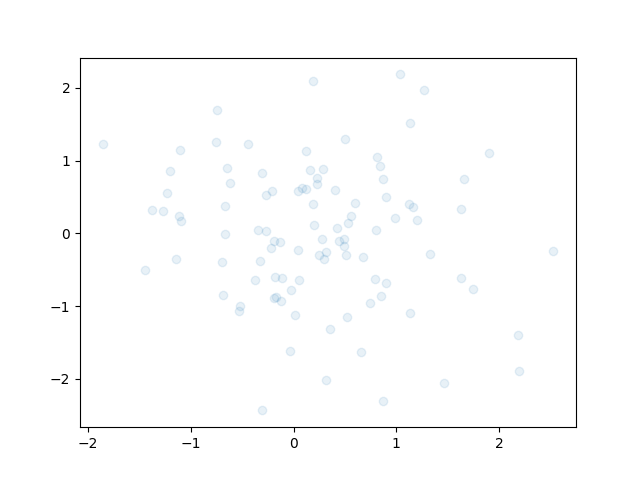
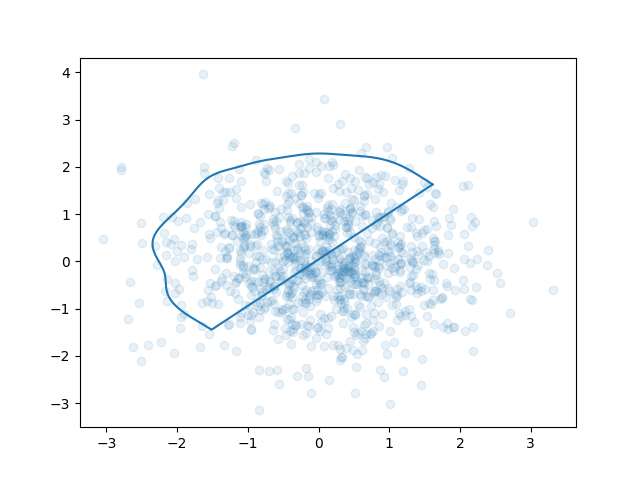
cut at axes and cut at diagonal works in playing with contours, plot_posterior is a mess

diff --git a/plot_posterior.py b/plot_posterior.py
@@ -85,6 +85,19 @@ class PlotPosterior:
 
         return rotated_data1, rotated_data2
 
+
+    def extract_vertices(self, contour):
+        path = contour.collections[-1].get_paths()[0]
+        vertices = path.vertices
+
+        return vertices
+
+
+    def close_contour(self, path):
+        path.vertices[-1] = path.vertices[0]
+        path.closed = True
+
+
     def scatter_hist(self, x, y, ax, injected_x, injected_y, ax_histx, ax_histy, scatter_color='blue', **kwargs):
         clip = None
 
@@ -106,18 +119,47 @@ class PlotPosterior:
         ax_histx.tick_params(axis="x", labelbottom=False)
         ax_histy.tick_params(axis="y", labelleft=False)
 
-        sns.kdeplot(x=kde_x, y=kde_y, ax=ax, levels=[0.1, 0.5], clip=clip, **kwargs)
-        ax.scatter(x, y, alpha=0.07, color=scatter_color)
+        main_contour = sns.kdeplot(x=kde_x, y=kde_y, levels=[0.1, 0.5], clip=clip, **kwargs)
+        x_contour = sns.kdeplot(x=kde_x, **kwargs)
+        y_contour = sns.kdeplot(y=kde_y, **kwargs)
 
-        sns.kdeplot(x=kde_x, ax=ax_histx, **kwargs)
-        sns.kdeplot(y=kde_y, ax=ax_histy, **kwargs)
+        contours = [main_contour, x_contour, y_contour]
+        vertices_list = [self.extract_vertices(contour) for contour in contours]
+
+        for vertices in vertices_list:
+            vertex_x, vertex_y = zip(*vertices)
+            vertex_x = np.array(vertex_x)
+            vertex_y = np.array(vertex_y)
+            if self.limit_at_axes:
+                filter = np.intersect1d(np.where(vertex_x > 0), np.where(vertex_y > 0))
+            if self.limit_at_diagonal:
+                filter = np.where(vertex_y > vertex_x)
+            vertices = vertices[filter]
+
+        for contour in contours:
+            path = contour.collections[-1].get_paths()[0]
+            self.close_contour(path)
+
+        main_vertices = vertices_list[0]
+        xhist_vertices = vertices_list[1]
+        yhist_vertices = vertices_list[2]
+
+        main_x, main_y = zip(*main_vertices)
+        xhist_x, xhist_y = zip(*xhist_vertices)
+        yhist_x, yhist_y = zip(*yhist_vertices)
+
+        ax.scatter(x, y, alpha=0.07, color=scatter_color)
+        ax.plot(main_x, main_y)
+
+        ax_histx.plot(xhist_x, xhist_y)
+        ax_histy.plot(yhist_x, yhist_y)
 
         ax.axvline(injected_x, color='black')
         ax.axhline(injected_y, color='black')
         ax.scatter([injected_x], [injected_y], color='black', marker='o', label='injected value')
 
-        ax.axvline(0, color='red')
-        ax.axhline(0, color='red')
+        # ax.axvline(0, color='red')
+        # ax.axhline(0, color='red')
 
     def plot(self, save=False, show=False, xlabel='', ylabel='', title='', **kwargs):
         fig = plt.figure(figsize=(8, 8))

diff --git a/playing_with_contours.py b/playing_with_contours.py
@@ -9,16 +9,64 @@ x = data[0]
 y = data[1]
 
 
-ax = sns.kdeplot(x=x, y=y, levels=[0.1, 0.5])
-print(ax.collections[-1].get_paths())
+def cut_contour_at_axes(path):
+    contour_x = path.vertices.T[0]
+    contour_y = path.vertices.T[1]
 
-# for path in ax.collections[-1].get_paths():
-#     print(path)
+    filter = np.intersect1d(np.where(contour_x > 0), np.where(contour_y > 0))
+
+    print(path.vertices)
+
+    path.vertices = path.vertices[filter]
+
+    contour_x = path.vertices.T[0]
+    contour_y = path.vertices.T[1]
+
+    extended_contour_x = np.zeros(shape=(len(contour_x) + 2,))
+    extended_contour_y = np.zeros(shape=(len(contour_y) + 2,))
+
+    extended_contour_x[1: -1] = contour_x
+    extended_contour_y[1: -1] = contour_y
+
+    return extended_contour_x, extended_contour_y
+
+def cut_contour_at_diagonal(path):
+    contour_x = path.vertices.T[0]
+    contour_y = path.vertices.T[1]
+
+    filter = np.where(contour_y > contour_x)
+
+    print(path.vertices)
+
+    path.vertices = path.vertices[filter]
+
+    contour_x = path.vertices.T[0]
+    contour_y = path.vertices.T[1]
+
+    extended_contour_x = np.zeros(shape=(len(contour_x) + 1,))
+    extended_contour_y = np.zeros(shape=(len(contour_y) + 1,))
+
+    extended_contour_x[0: -1] = contour_x
+    extended_contour_y[0: -1] = contour_y
+
+    extended_contour_x[-1] = contour_x[0]
+    extended_contour_y[-1] = contour_y[0]
+
+    return extended_contour_x, extended_contour_y
+
+
+
+ax = sns.kdeplot(x=x, y=y, levels=[0.1])
+path = ax.collections[-1].get_paths()[0]
+# print(path)
+contour_x, contour_y = cut_contour_at_diagonal(path)
+# path.codes = None
 
 plt.figure()
 
 plt.scatter(x, y, alpha=0.1)
-plt.plot()
+plt.plot(contour_x, contour_y)
+# sns.kdeplot(x=x, y=y, levels=[0.1])
 
 plt.savefig('contour_test.png')
 # plt.show()

diff --git a/compare_binary_love.py b/compare_binary_love.py
@@ -9,7 +9,7 @@ zero_spin_filename = 'bns_zero_spin_L1L2_example_data0_1126259642-413_analysis_H
 zero_spin_data = DataLoaderH5(filename='data/' + zero_spin_filename + '.hdf5', parameters=parameters)
 zero_spin_plotter = PlotPosterior(zero_spin_data.posteriors_dict[parameters[0]], zero_spin_data.posteriors_dict[parameters[1]],
                                   zero_spin_data.injection_dict[parameters[0]], zero_spin_data.injection_dict[parameters[1]],
-                                  limit_at_axes=True, limit_at_diagonal=False)
+                                  limit_at_axes=True, limit_at_diagonal=True)
 
 
 binary_love_filename = 'bns_binary_love_example_data0_1126259642-413_analysis_H1L1V1_result'
